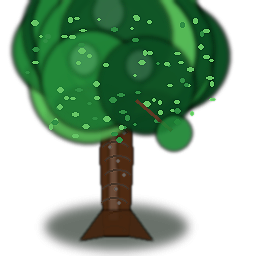
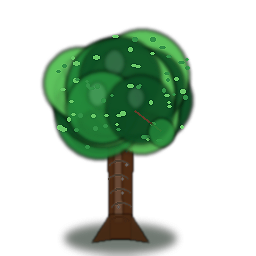
Fix clipped tree crowns and square-looking water tiles.
Keep tree canopies inside padded frames and draw props taller than
the cell; regenerate seamless looping water without vignette borders.

diff --git a/tools/gen_realistic_flora_water.py b/tools/gen_realistic_flora_water.py
@@ -170,10 +170,10 @@ def make_grass(variant: int = 0) -> Image.Image:
 # ─── Trees ───────────────────────────────────────────────────────────────────
 
 def make_tree(variant: int = 0) -> Image.Image:
-    """Bark trunk + layered canopy clusters with leaf flecks and ground shadow."""
+    """Full tree kept inside the frame — top padding so canopy is never cropped."""
     img = Image.new("RGBA", (SIZE, SIZE), (0, 0, 0, 0))
     rnd = random.Random(200 + variant * 33)
-    cx = SIZE // 2 + (variant - 1) * 12
+    cx = SIZE // 2 + (variant - 1) * 8
 
     palettes = [
         ((18, 70, 36), (40, 120, 58), (90, 170, 90), (70, 42, 24)),
@@ -183,166 +183,155 @@ def make_tree(variant: int = 0) -> Image.Image:
     ]
     deep, mid, lit, bark = palettes[variant % 4]
 
-    # ground shadow first
-    img = soft_ellipse(img, [cx - 70, 205, cx + 70, 248], (12, 24, 14, 95), 5.0)
+    # Keep silhouette in ~y=28..248 so soft blur never clips the crown.
+    top_pad = 28
+    ground_y = 242
 
-    # trunk — tapered with bark ridges
+    img = soft_ellipse(img, [cx - 55, ground_y - 18, cx + 55, ground_y + 10], (12, 24, 14, 90), 4.0)
+
     trunk_pts = [
-        (cx - 16, 155),
-        (cx - 11, 70),
-        (cx + 11, 70),
-        (cx + 16, 155),
-        (cx + 12, 235),
-        (cx - 12, 235),
+        (cx - 12, 150),
+        (cx - 9, 78),
+        (cx + 9, 78),
+        (cx + 12, 150),
+        (cx + 10, ground_y - 4),
+        (cx - 10, ground_y - 4),
     ]
-    img = soft_poly(img, trunk_pts, rgba(bark), 1.1)
-    # trunk lighting
+    img = soft_poly(img, trunk_pts, rgba(bark), 1.0)
     img = soft_poly(
         img,
-        [(cx - 6, 80), (cx - 2, 80), (cx + 2, 220), (cx - 8, 220)],
-        rgba(shade(bark, 0.25), 140),
-        1.5,
-    )
-    d = ImageDraw.Draw(img)
-    for y in range(85, 230, 14):
-        wobble = rnd.randint(-2, 2)
-        d.arc([cx - 14 + wobble, y, cx + 14 + wobble, y + 16], 200, 340, fill=(40, 24, 12, 150), width=2)
-        # bark pores
-        px = cx + rnd.randint(-8, 8)
-        d.ellipse([px, y + 4, px + 3, y + 7], fill=(30, 18, 10, 100))
-
-    # root flare
-    img = soft_poly(
-        img,
-        [(cx - 14, 210), (cx - 36, 240), (cx - 8, 235), (cx + 8, 235), (cx + 36, 240), (cx + 14, 210)],
-        rgba(shade(bark, -0.1), 220),
+        [(cx - 5, 85), (cx - 1, 85), (cx + 2, ground_y - 20), (cx - 6, ground_y - 20)],
+        rgba(shade(bark, 0.25), 130),
         1.2,
     )
+    d = ImageDraw.Draw(img)
+    for y in range(90, ground_y - 15, 14):
+        wobble = rnd.randint(-2, 2)
+        d.arc([cx - 11 + wobble, y, cx + 11 + wobble, y + 14], 200, 340, fill=(40, 24, 12, 140), width=2)
+        px = cx + rnd.randint(-6, 6)
+        d.ellipse([px, y + 3, px + 2, y + 6], fill=(30, 18, 10, 100))
 
-    # canopy clusters — many overlapping blobs for organic mass
+    img = soft_poly(
+        img,
+        [(cx - 10, ground_y - 28), (cx - 28, ground_y), (cx - 4, ground_y - 4),
+         (cx + 4, ground_y - 4), (cx + 28, ground_y), (cx + 10, ground_y - 28)],
+        rgba(shade(bark, -0.1), 210),
+        1.0,
+    )
+
+    # Compact canopy centered lower so crown stays below top_pad.
+    canopy_cy = 95
     clusters = []
-    for i in range(16):
-        ang = i * (math.pi * 2 / 16) + rnd.random() * 0.4
-        dist = 28 + rnd.randint(0, 48)
-        bx = cx + int(math.cos(ang) * dist * 0.85)
-        by = 70 + int(math.sin(ang) * dist * 0.55) - 20
-        r = 38 + rnd.randint(0, 28)
+    for i in range(14):
+        ang = i * (math.pi * 2 / 14) + rnd.random() * 0.35
+        dist = 18 + rnd.randint(0, 34)
+        bx = cx + int(math.cos(ang) * dist * 0.9)
+        by = canopy_cy + int(math.sin(ang) * dist * 0.5)
+        r = 28 + rnd.randint(0, 18)
         col = deep if i % 3 == 0 else (mid if i % 3 == 1 else lit)
         clusters.append((bx, by, r, col))
-    # center mass
     clusters += [
-        (cx - 10, 55, 70, mid),
-        (cx + 15, 50, 65, lit),
-        (cx, 35, 55, deep),
-        (cx - 25, 80, 50, mid),
-        (cx + 30, 85, 48, deep),
+        (cx - 6, canopy_cy - 8, 48, mid),
+        (cx + 10, canopy_cy - 4, 44, lit),
+        (cx, canopy_cy - 18, 40, deep),
+        (cx - 18, canopy_cy + 12, 36, mid),
+        (cx + 20, canopy_cy + 14, 34, deep),
     ]
     for bx, by, r, col in clusters:
-        img = soft_ellipse(img, [bx - r, by - r, bx + r, by + r], rgba(col, 235), 2.4)
-        # underside AO on each cluster
+        # Clamp vertically into safe frame
+        by = max(top_pad + r // 2, min(by, 150))
+        img = soft_ellipse(img, [bx - r, by - r, bx + r, by + r], rgba(col, 235), 2.0)
         img = soft_ellipse(
             img,
-            [bx - int(r * 0.7), by + int(r * 0.15), bx + int(r * 0.7), by + int(r * 0.95)],
-            rgba(shade(col, -0.35), 70),
-            3.0,
-        )
-        # highlight cap
-        img = soft_ellipse(
-            img,
-            [bx - int(r * 0.45), by - int(r * 0.75), bx + int(r * 0.15), by - int(r * 0.1)],
-            rgba(shade(col, 0.35), 90),
+            [bx - int(r * 0.65), by + int(r * 0.1), bx + int(r * 0.65), by + int(r * 0.85)],
+            rgba(shade(col, -0.35), 65),
             2.5,
         )
+        img = soft_ellipse(
+            img,
+            [bx - int(r * 0.4), by - int(r * 0.7), bx + int(r * 0.12), by - int(r * 0.05)],
+            rgba(shade(col, 0.35), 85),
+            2.0,
+        )
 
-    # individual leaf flecks / sun spots
     d = ImageDraw.Draw(img)
     pix = img.load()
-    for _ in range(90):
-        x = rnd.randint(cx - 95, cx + 95)
-        y = rnd.randint(10, 140)
-        if x < 0 or y < 0 or x >= SIZE - 4 or y >= SIZE - 4:
+    for _ in range(70):
+        x = rnd.randint(cx - 70, cx + 70)
+        y = rnd.randint(top_pad + 4, 145)
+        if x < 2 or y < 2 or x >= SIZE - 4 or y >= SIZE - 4:
             continue
         if pix[x, y][3] < 40:
             continue
         col = lit if rnd.random() > 0.4 else mid
-        d.ellipse([x, y, x + rnd.randint(3, 7), y + rnd.randint(2, 5)], fill=rgba(col, 190))
+        d.ellipse([x, y, x + rnd.randint(3, 6), y + rnd.randint(2, 4)], fill=rgba(col, 185))
 
-    # hanging branch hint
-    d.line([(cx + 20, 100), (cx + 55, 130)], fill=rgba(bark, 180), width=3)
-    img = soft_ellipse(img, [cx + 40, 115, cx + 75, 150], rgba(mid, 200), 1.8)
-
+    d.line([(cx + 14, 110), (cx + 40, 130)], fill=rgba(bark, 170), width=2)
+    img = soft_ellipse(img, [cx + 28, 118, cx + 54, 146], rgba(mid, 195), 1.5)
     return finish(img)
 
 
 # ─── Water ───────────────────────────────────────────────────────────────────
 
 def make_water(phase: int = 0) -> Image.Image:
-    """Depth-graded water with caustics, foam crests, and soft reflections."""
-    deep = (8, 42, 72)
-    mid = (22, 100, 140)
-    shallow = (70, 175, 205)
-    foam = (210, 240, 250)
+    """Seamless looping water — no borders/vignettes so ponds don't look square."""
+    deep = (10, 52, 82)
+    mid = (28, 112, 150)
+    shallow = (78, 180, 210)
     img = Image.new("RGBA", (SIZE, SIZE))
     pix = img.load()
+    # Periods that wrap exactly at SIZE for seamless tiling.
+    two_pi = math.pi * 2.0
+    phase_shift = phase * 0.55
 
     for y in range(SIZE):
         for x in range(SIZE):
-            # depth gradient (deeper toward bottom-right for variety)
-            depth = 0.35 + 0.4 * (y / SIZE) + 0.15 * (x / SIZE)
-            # multi-wave field
-            w1 = math.sin((x + phase * 9) * 0.055 + y * 0.04)
-            w2 = math.cos((y - phase * 4) * 0.07 + x * 0.03)
-            w3 = math.sin((x * 0.12 + y * 0.09) + phase * 0.8)
-            caustic = fbm(x * 1.6 + phase * 3, y * 1.6, 90 + phase)
-            wave = w1 * 0.45 + w2 * 0.3 + w3 * 0.15 + (caustic - 0.5) * 0.5
+            u = x / SIZE
+            v = y / SIZE
+            # seamless waves (integer frequencies)
+            w1 = math.sin(two_pi * (2 * u + 1 * v) + phase_shift)
+            w2 = math.cos(two_pi * (1 * u - 2 * v) + phase_shift * 1.3)
+            w3 = math.sin(two_pi * (3 * u + 2 * v) + phase_shift * 0.7)
+            # seamless value noise via wrapped sines
+            n = (
+                math.sin(two_pi * (3 * u + phase * 0.1)) * math.cos(two_pi * (2 * v + phase * 0.07))
+                + 0.5 * math.sin(two_pi * (5 * u - 3 * v) + phase_shift)
+            )
+            caustic = (n + 1.5) / 3.0
+            wave = w1 * 0.4 + w2 * 0.3 + w3 * 0.2 + (caustic - 0.5) * 0.35
 
+            # gentle overall depth — no corner bias (that reads as squares)
+            depth = 0.45 + 0.12 * math.sin(two_pi * (u + v) + phase_shift * 0.2)
             base = mix(deep, mid, depth)
-            if wave > 0.55:
-                col = mix(base, shallow, min(1.0, (wave - 0.55) * 2.2))
-            elif wave < -0.45:
-                col = mix(base, shade(deep, -0.15), min(1.0, (-wave - 0.45) * 1.8))
+            if wave > 0.45:
+                col = mix(base, shallow, min(1.0, (wave - 0.45) * 1.6))
+            elif wave < -0.4:
+                col = mix(base, shade(deep, -0.12), min(1.0, (-wave - 0.4) * 1.4))
             else:
-                col = mix(base, shallow, 0.15 + wave * 0.2)
-
-            # specular glitter on wave peaks
-            if wave > 0.75 and caustic > 0.6:
-                col = mix(col, (255, 255, 255), 0.45)
+                col = mix(base, shallow, 0.12 + wave * 0.15)
+            if wave > 0.72 and caustic > 0.55:
+                col = mix(col, (245, 252, 255), 0.28)
             pix[x, y] = rgba(col)
 
-    d = ImageDraw.Draw(img)
-    # foam crest arcs (animated by phase)
-    for i in range(4):
-        yy = 45 + i * 48 + (phase % 4) * 5
-        alpha = 130 - i * 15
-        d.arc([12, yy - 28, SIZE - 12, yy + 36], 200, 340, fill=(*foam, alpha), width=3)
-        d.arc([30, yy - 10, SIZE - 30, yy + 40], 210, 330, fill=(255, 255, 255, alpha // 2), width=2)
+    # Soft highlight ribbons that also wrap (drawn via pixels, not hard arcs)
+    for y in range(SIZE):
+        for x in range(SIZE):
+            u = x / SIZE
+            v = y / SIZE
+            ribbon = math.sin(two_pi * (1 * u + 3 * v) + phase_shift * 1.1)
+            if ribbon > 0.88:
+                r, g, b, a = pix[x, y]
+                col = mix((r, g, b), (230, 245, 255), 0.22)
+                pix[x, y] = rgba(col, a)
 
-    # soft shoreline foam flecks
-    rnd = random.Random(50 + phase)
-    for _ in range(40):
-        x = rnd.randint(8, SIZE - 10)
-        y = rnd.randint(8, SIZE - 10)
-        if rnd.random() > 0.5:
-            d.ellipse([x, y, x + 5, y + 2], fill=(230, 245, 255, 100))
-
-    # subsurface green tint patches (weeds / algae)
-    for _ in range(6):
-        x, y = rnd.randint(20, SIZE - 40), rnd.randint(40, SIZE - 40)
-        img = soft_ellipse(img, [x, y, x + 36, y + 20], (30, 120, 90, 45), 4.0)
-
-    # vignette depth
-    overlay = Image.new("RGBA", (SIZE, SIZE), (0, 0, 0, 0))
-    od = ImageDraw.Draw(overlay)
-    od.rectangle([0, 0, SIZE - 1, SIZE - 1], outline=(6, 30, 50, 50), width=4)
-    img = Image.alpha_composite(img, overlay)
-    return finish(img)
+    # Light blur only — avoid DETAIL/sharpen that exaggerates tile edges
+    soft = img.filter(ImageFilter.GaussianBlur(0.8))
+    out = Image.alpha_composite(soft, img)
+    out = ImageEnhance.Color(out).enhance(1.06)
+    return out
 
 
 def main():
-    for i in range(4):
-        name = "grass.png" if i == 0 else f"grass_{i}.png"
-        make_grass(i).save(TILES / name)
-        print("grass", name)
     for i in range(4):
         name = "tree.png" if i == 0 else f"tree_{i}.png"
         make_tree(i).save(TILES / name)
